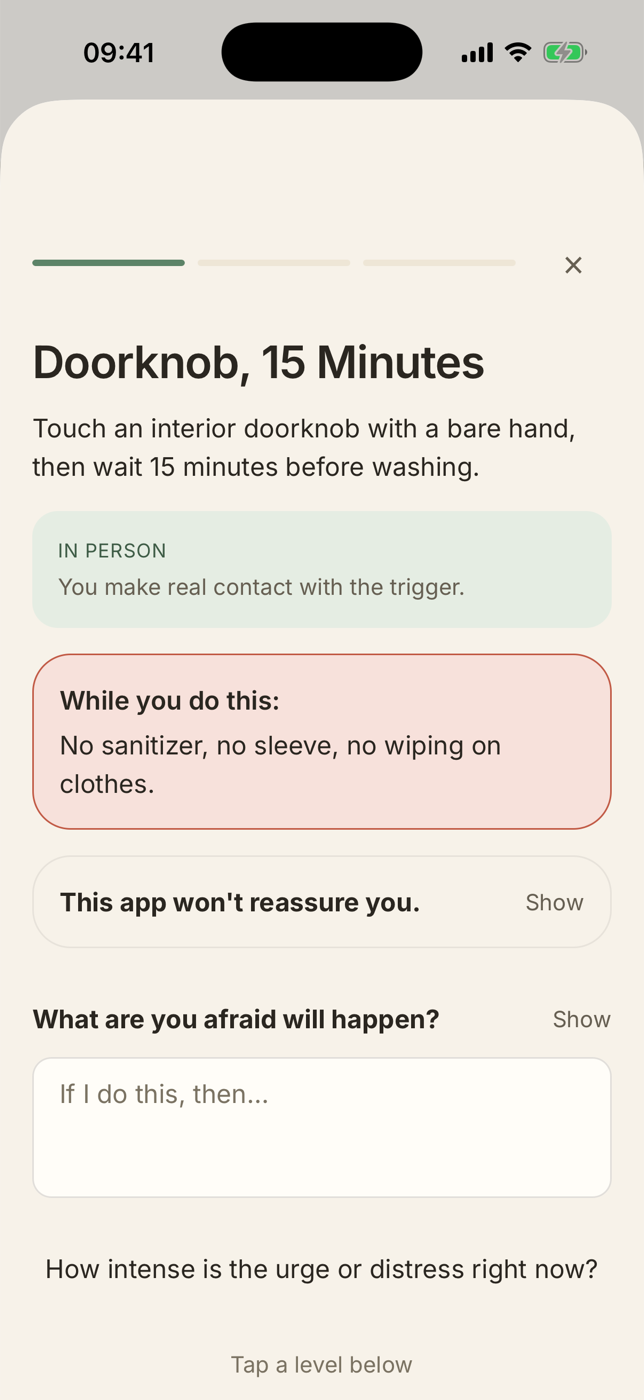
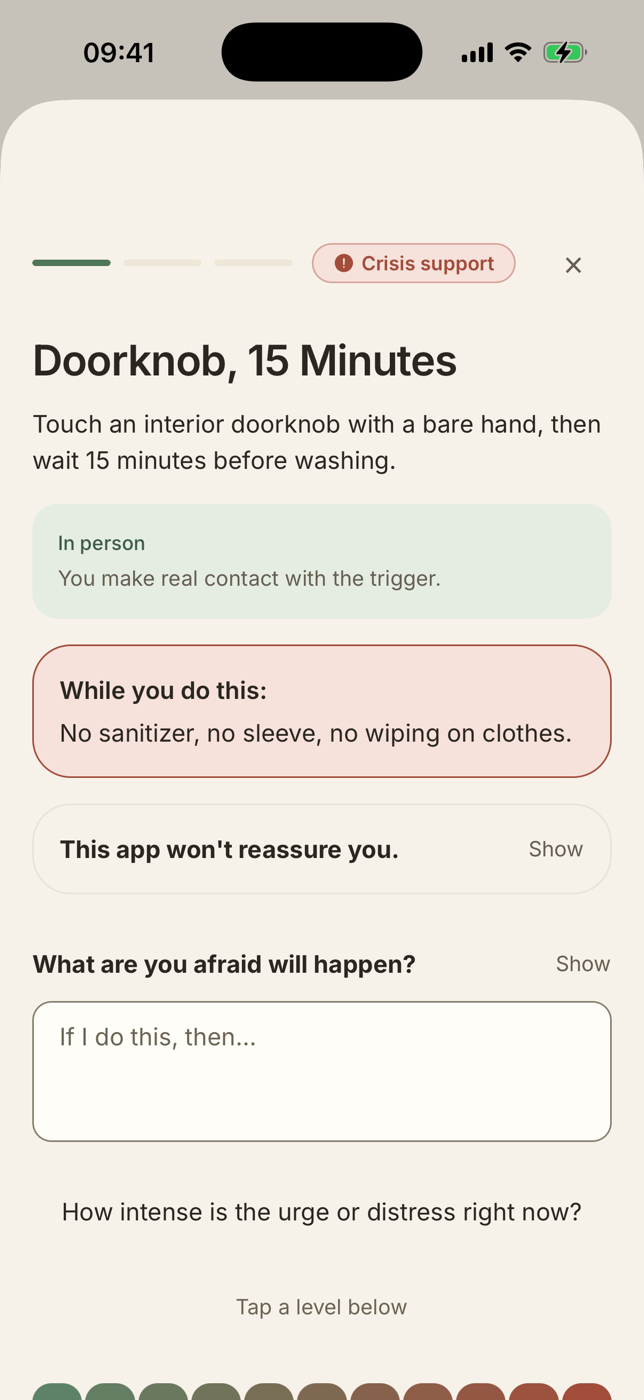
Site: new app screenshots from the iOS 26 build
Home, progress, patterns, exercise, urge and crisis recaptured from the
current app (floating glass tab bar, sentence-case labels). Cache-busting
version bumped so browsers fetch them. widgets.png is the Home Screen, not
the app, and is unchanged.

diff --git a/index.html b/index.html
@@ -41,9 +41,9 @@
 <p class="cta"><a class="ghost" href="#how">How it works</a></p>
 </header>
 <div class="stage" aria-label="Screens from the app">
-<figure class="phone side left"><img src="img/progress.png?v=20261015" width="644" height="1400" alt="Week, month and year charts of exercises done and urges logged"></figure>
-<figure class="phone main"><img src="img/home.png?v=20261015" width="644" height="1400" alt="The Kairos home screen: your progress, the next exercise, and a button to log an urge"></figure>
-<figure class="phone side right"><img src="img/urge.png?v=20261014" width="644" height="1400" alt="Logging an urge: a 0 to 10 strength scale and what set it off"></figure>
+<figure class="phone side left"><img src="img/progress.png?v=20261018" width="644" height="1400" alt="Week, month and year charts of exercises done and urges logged"></figure>
+<figure class="phone main"><img src="img/home.png?v=20261018" width="644" height="1400" alt="The Kairos home screen: your progress, the next exercise, and a button to log an urge"></figure>
+<figure class="phone side right"><img src="img/urge.png?v=20261018" width="644" height="1400" alt="Logging an urge: a 0 to 10 strength scale and what set it off"></figure>
 </div>
 </div>
 </div>
@@ -52,7 +52,7 @@
 <section class="showcase" aria-label="Screens from the app">
 <h2 class="big center">See inside</h2>
 <p class="center sub">A closer look at the app.</p>
-<div class="track" tabindex="0" role="region" aria-label="App screens, scrollable"><figure class="slide dup"><div class="tile t1"><div class="frame"><img src="img/home.png?v=20261015" width="644" height="1400" loading="lazy" alt="Home screen with your progress and the next exercise"></div></div><figcaption><strong>Home</strong><span>Where you are, and one clear next step.</span></figcaption></figure><figure class="slide"><div class="tile t2"><div class="frame"><img src="img/exercise.png?v=20261014" width="644" height="1400" loading="lazy" alt="An exercise with what to avoid and a box for what you fear will happen"></div></div><figcaption><strong>Exercises</strong><span>Face a fear on purpose, and write down what you expect.</span></figcaption></figure><figure class="slide dup"><div class="tile t3"><div class="frame"><img src="img/urge.png?v=20261014" width="644" height="1400" loading="lazy" alt="The urge log with a 0 to 10 scale and triggers"></div></div><figcaption><strong>Log an urge</strong><span>A few taps, wherever you are, whatever happened.</span></figcaption></figure><figure class="slide dup"><div class="tile t4"><div class="frame"><img src="img/progress.png?v=20261015" width="644" height="1400" loading="lazy" alt="Week, month and year charts"></div></div><figcaption><strong>Progress</strong><span>Week, month and year, at a glance.</span></figcaption></figure><figure class="slide"><div class="tile t5"><div class="frame"><img src="img/patterns.png?v=20261015" width="644" height="1400" loading="lazy" alt="A pattern card with a falling trend line"></div></div><figcaption><strong>Patterns</strong><span>Watch each pattern ease, with the numbers behind it.</span></figcaption></figure><figure class="slide"><div class="tile t7"><div class="frame"><img src="img/widgets.png?v=20261017" width="644" height="1400" loading="lazy" alt="Four Kairos widgets on the iPhone Home Screen: start an exercise, log an urge, this week's progress and crisis support"></div></div><figcaption><strong>Widgets</strong><span>Start, log or get help from the Home Screen.</span></figcaption></figure><figure class="slide"><div class="tile t6"><div class="frame"><img src="img/crisis.png?v=20261014" width="644" height="1400" loading="lazy" alt="Crisis support with UK and US helplines"></div></div><figcaption><strong>Crisis support</strong><span>Always one tap away, even before you sign in.</span></figcaption></figure></div>
+<div class="track" tabindex="0" role="region" aria-label="App screens, scrollable"><figure class="slide dup"><div class="tile t1"><div class="frame"><img src="img/home.png?v=20261018" width="644" height="1400" loading="lazy" alt="Home screen with your progress and the next exercise"></div></div><figcaption><strong>Home</strong><span>Where you are, and one clear next step.</span></figcaption></figure><figure class="slide"><div class="tile t2"><div class="frame"><img src="img/exercise.png?v=20261018" width="644" height="1400" loading="lazy" alt="An exercise with what to avoid and a box for what you fear will happen"></div></div><figcaption><strong>Exercises</strong><span>Face a fear on purpose, and write down what you expect.</span></figcaption></figure><figure class="slide dup"><div class="tile t3"><div class="frame"><img src="img/urge.png?v=20261018" width="644" height="1400" loading="lazy" alt="The urge log with a 0 to 10 scale and triggers"></div></div><figcaption><strong>Log an urge</strong><span>A few taps, wherever you are, whatever happened.</span></figcaption></figure><figure class="slide dup"><div class="tile t4"><div class="frame"><img src="img/progress.png?v=20261018" width="644" height="1400" loading="lazy" alt="Week, month and year charts"></div></div><figcaption><strong>Progress</strong><span>Week, month and year, at a glance.</span></figcaption></figure><figure class="slide"><div class="tile t5"><div class="frame"><img src="img/patterns.png?v=20261018" width="644" height="1400" loading="lazy" alt="A pattern card with a falling trend line"></div></div><figcaption><strong>Patterns</strong><span>Watch each pattern ease, with the numbers behind it.</span></figcaption></figure><figure class="slide"><div class="tile t7"><div class="frame"><img src="img/widgets.png?v=20261017" width="644" height="1400" loading="lazy" alt="Four Kairos widgets on the iPhone Home Screen: start an exercise, log an urge, this week's progress and crisis support"></div></div><figcaption><strong>Widgets</strong><span>Start, log or get help from the Home Screen.</span></figcaption></figure><figure class="slide"><div class="tile t6"><div class="frame"><img src="img/crisis.png?v=20261018" width="644" height="1400" loading="lazy" alt="Crisis support with UK and US helplines"></div></div><figcaption><strong>Crisis support</strong><span>Always one tap away, even before you sign in.</span></figcaption></figure></div>
 <p class="fine center">Screens show sample data.</p>
 </section>
 
